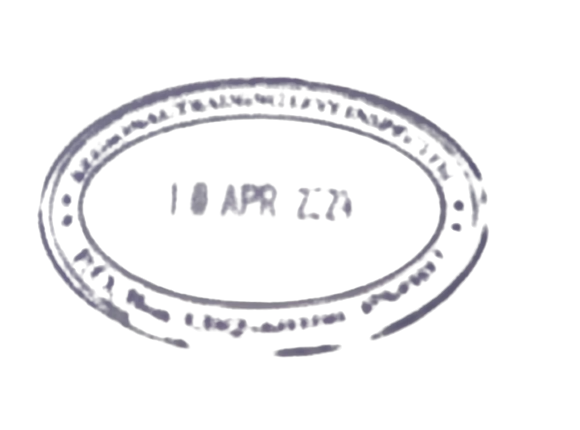
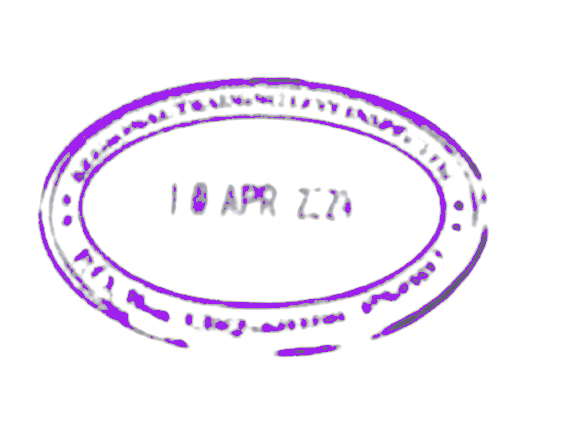
Fixing approval letter styles and adding stamp.

diff --git a/src/components/approval-letter/approval-letter.component.jsx b/src/components/approval-letter/approval-letter.component.jsx
@@ -109,7 +109,7 @@ const ApprovalLetter = ({ letter_data }) => {
           <div className="d-flex justify-content-between pb-2">
             <div>
               <p className="font-weight-bold medium-text">Peter Njiru</p>
-              <p className="font-weight-bold larger-text">
+              <p className="font-weight-bold medium-text">
                 <u>For: DIRECTOR GENERAL</u>
               </p>
               <p className="address-text">PN/MN</p>
@@ -126,7 +126,7 @@ const ApprovalLetter = ({ letter_data }) => {
         </div>
         <div className="div-stamp mb-3">
           <img src={stamp} className="stamp" alt="Stamp" />
-          <p className="stamp-date">2 7 - 0 9 - 2 0 2 2</p>
+          <p className="stamp-date">2 7 - 0 9 - 2022</p>
         </div>
       </div>
 

diff --git a/src/components/approval-letter/approval-letter.styles.css b/src/components/approval-letter/approval-letter.styles.css
@@ -59,8 +59,9 @@
 .stamp-date {
   position: absolute;
   width: 250px;
-  top: 150px;
+  top: 160px;
   padding-left: 18px;
   font-weight: 500;
   font-size: 24px;
+  color: #a020f0;
 }
